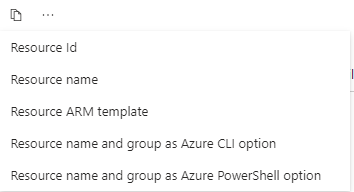
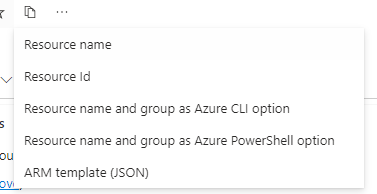
Fix readme and manifest

diff --git a/README.md b/README.md
@@ -50,6 +50,40 @@ When finishing a process taking long time, a notification is displayed on your d
 
 When finishing a process taking long time, the tab opening Azure portal is activated (i.e. to be brought to the top) automatically.
 
+## 5. Copy resouce information
+Add the following copy menu to the resource page's header and disable built-in `Copy title to clipbord` in `More content actions` menu.  
+
+<img src="./popup/img/advanced-copy-menu.png">
+
+  - `Resource name`
+  - `Resource Id`  
+    format:  
+    ```
+    /subscriptions/{subscription_id}/resourceGroups/{resource_group_name}/providers/{resource_provider_name}/{resource_type}/{resource_name}
+    ```
+  - `Resource name and group as Azure CLI option`  
+    format:  
+    ```bash
+    --name {resource_name} --resource-group {resource_group_name}
+    ```
+  - `Resource name and group as Azure PowerShell option`  
+    format:  
+    ```pwsh
+    -Name {resource_name} -ResourceGroup {resource_group_name}
+    ```
+  - `Resource Template (JSON)`  
+    format:  
+    ```json
+    {
+      "name": "{resource_name}",
+      "id": "/subscriptions/{subscription_id}/resourceGroups/{resource_group_name}/providers/{resource_provider_name}/{resource_type}/{resource_name}",
+      "type": "{resource_provider_name}",
+
+        :
+    }
+    ```
+  - Resource and group name as Azure CLI option
+  - Resource and group name as Azure PowerShell option
 
 # Try this
 
@@ -73,12 +107,17 @@ If you can try a development version, the following steps are needed.
 
 # Change logs
 
+## [0.0.5](https://github.com/horihiro/Azure-portal-plus-ChromeExtension/releases/tag/0.0.5)
+
+  - New feature
+    - Add a feature to copy resource infomation in various formats.
+
 ## [0.0.4](https://github.com/horihiro/Azure-portal-plus-ChromeExtension/releases/tag/0.0.4)
 
   - Improve features
     - Add beforeunload event listener to prevent accidental page leave during blinking favicon ([#8](https://github.com/horihiro/Azure-portal-plus-ChromeExtension/pull/8))
   - New feature
-    - Actvate the tab opening Azure portal (i.e. bring it to the top) automatically when finishing a process taking long time ([#9](https://github.com/horihiro/Azure-portal-plus-ChromeExtension/pull/9))
+    - Activate the tab opening Azure portal (i.e. bring it to the top) automatically when finishing a process taking long time ([#9](https://github.com/horihiro/Azure-portal-plus-ChromeExtension/pull/9))
 
 ## [0.0.3](https://github.com/horihiro/Azure-portal-plus-ChromeExtension/releases/tag/0.0.3)
 
